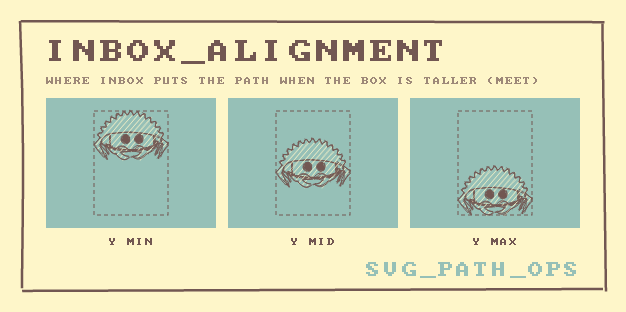
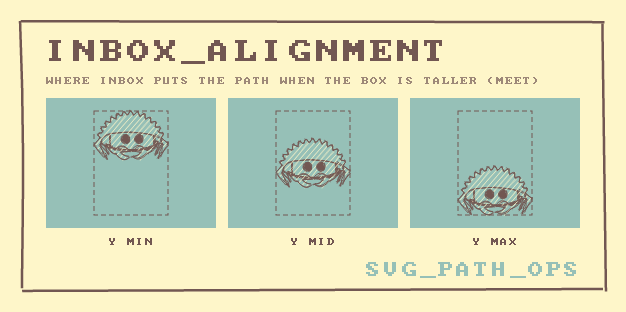
Draw the original path in purple in the path ops gallery
The dashed outline marking where the path was before an operation used
the muted subtitle color at 1.2 px, which nearly disappeared against the
teal cells and under the filled result.

- Draw it 2 px wide in the purple used by the earlier svg_path_ops
  images, keeping the box and guide lines thin and brown
- Take the dash width as a parameter of draw_dashed
- Say "dashed in purple" in the docs and README

diff --git a/rough_tiny_skia/examples/path_ops_gallery.rs b/rough_tiny_skia/examples/path_ops_gallery.rs
@@ -2,8 +2,8 @@
 //! documentation.
 //!
 //! Each image is a strip of cells that apply one operation with a different
-//! value from left to right. The original path is drawn dashed, the result
-//! filled. Run it from the workspace root after changing an operation:
+//! value from left to right. The original path is drawn dashed in purple,
+//! the result filled. Run it from the workspace root after changing an operation:
 //!
 //! ```sh
 //! cargo run -p rough_tiny_skia --example path_ops_gallery
@@ -15,7 +15,7 @@ mod common;
 
 use std::path::{Path, PathBuf};
 
-use common::{Canvas, Layout, BROWN, CREAM, SUBTITLE_COLOR};
+use common::{Canvas, Layout, BROWN, CREAM};
 use palette::Srgba;
 use rough_tiny_skia::SkiaGenerator;
 use roughr::core::{FillStyle, OptionsBuilder};
@@ -37,6 +37,10 @@ const LAYOUT: Layout = Layout {
 /// Side of the square Ferris is fitted into before an operation, leaving
 /// room in the cell for the transformed result.
 const SUBJECT_SIZE: f64 = 84.0;
+
+/// Color of the dashed outline marking where the path was before an
+/// operation: the purple from the original svg_path_ops images.
+const GHOST_COLOR: (u8, u8, u8) = (156, 1, 188);
 
 /// Ferris the crab, the Rust mascot by Karen Rustad Tölva, dedicated to the
 /// public domain (CC0) at <https://rustacean.net>. The parts come from
@@ -207,7 +211,7 @@ fn ferris_parts(path: &str) -> Vec<String> {
 fn draw_ferris_ghost(canvas: &mut Canvas, path: &str) {
     for ((part, _), data) in FERRIS_PARTS.iter().zip(ferris_parts(path)) {
         if matches!(part, Part::Body) {
-            draw_dashed(canvas, &data, SUBTITLE_COLOR);
+            draw_dashed(canvas, &data, GHOST_COLOR, 2.0);
         }
     }
 }
@@ -227,7 +231,7 @@ fn draw_solid(canvas: &mut Canvas, path: &str) {
 }
 
 /// Strokes `path` with an exact dashed line, for originals and guides.
-fn draw_dashed(canvas: &mut Canvas, path: &str, color: (u8, u8, u8)) {
+fn draw_dashed(canvas: &mut Canvas, path: &str, color: (u8, u8, u8), width: f32) {
     let mut builder = PathBuilder::new();
     let segments: Vec<PathSegment> = PathParser::from(path).map(Result::unwrap).collect();
     let normalized: Vec<PathSegment> =
@@ -249,8 +253,8 @@ fn draw_dashed(canvas: &mut Canvas, path: &str, color: (u8, u8, u8)) {
     let mut paint = Paint::default();
     paint.set_color_rgba8(color.0, color.1, color.2, 255);
     let stroke = Stroke {
-        width: 1.2,
-        dash: StrokeDash::new(vec![4.0, 3.0], 0.0),
+        width,
+        dash: StrokeDash::new(vec![5.0, 3.0], 0.0),
         ..Stroke::default()
     };
     canvas
@@ -309,7 +313,7 @@ fn draw_line(canvas: &mut Canvas, from: (f64, f64), to: (f64, f64)) {
 /// Draws the axis-aligned rectangle `(x, y, w, h)` as a dashed guide.
 fn draw_box(canvas: &mut Canvas, (x, y, w, h): (f64, f64, f64, f64)) {
     let rect = format!("M {x} {y} h {w} v {h} h {} Z", -w);
-    draw_dashed(canvas, &rect, BROWN);
+    draw_dashed(canvas, &rect, BROWN, 1.2);
 }
 
 /// Fits `path` into the box `(x, y, w, h)`, keeping its aspect ratio.
@@ -498,7 +502,7 @@ fn draw_implied_controls(canvas: &mut Canvas, path: &str) {
                         "M {} {} L {} {}",
                         mirrored.0, mirrored.1, implied.x, implied.y
                     );
-                    draw_dashed(canvas, &guide, BROWN);
+                    draw_dashed(canvas, &guide, BROWN, 1.2);
                 }
                 draw_dot(canvas, (implied.x, implied.y), true);
                 draw_dot(canvas, (x2, y2), false);
@@ -511,7 +515,7 @@ fn draw_implied_controls(canvas: &mut Canvas, path: &str) {
                         "M {} {} L {} {}",
                         mirrored.0, mirrored.1, implied.x, implied.y
                     );
-                    draw_dashed(canvas, &guide, BROWN);
+                    draw_dashed(canvas, &guide, BROWN, 1.2);
                 }
                 draw_dot(canvas, (implied.x, implied.y), true);
                 previous_control = Some((implied.x, implied.y));

diff --git a/svg_path_ops/src/lib.rs b/svg_path_ops/src/lib.rs
@@ -27,7 +27,7 @@
 //!
 //! [`PathTransformer`] applies transforms in the order
 //! they are added, and writes the result with its `Display` implementation.
-//! In the images below the original path is dashed.
+//! In the images below the original path is dashed in purple.
 //!
 //! ![translate](https://raw.githubusercontent.com/orhanbalci/rough-rs/main/svg_path_ops/assets/ops/translate.png)
 //!

diff --git a/svg_path_ops/README.md b/svg_path_ops/README.md
@@ -32,7 +32,7 @@ svg_path_ops = "0.11"
 
 [`PathTransformer`] applies transforms in the order
 they are added, and writes the result with its `Display` implementation.
-In the images below the original path is dashed.
+In the images below the original path is dashed in purple.
 
 ![translate](https://raw.githubusercontent.com/orhanbalci/rough-rs/main/svg_path_ops/assets/ops/translate.png)
 
